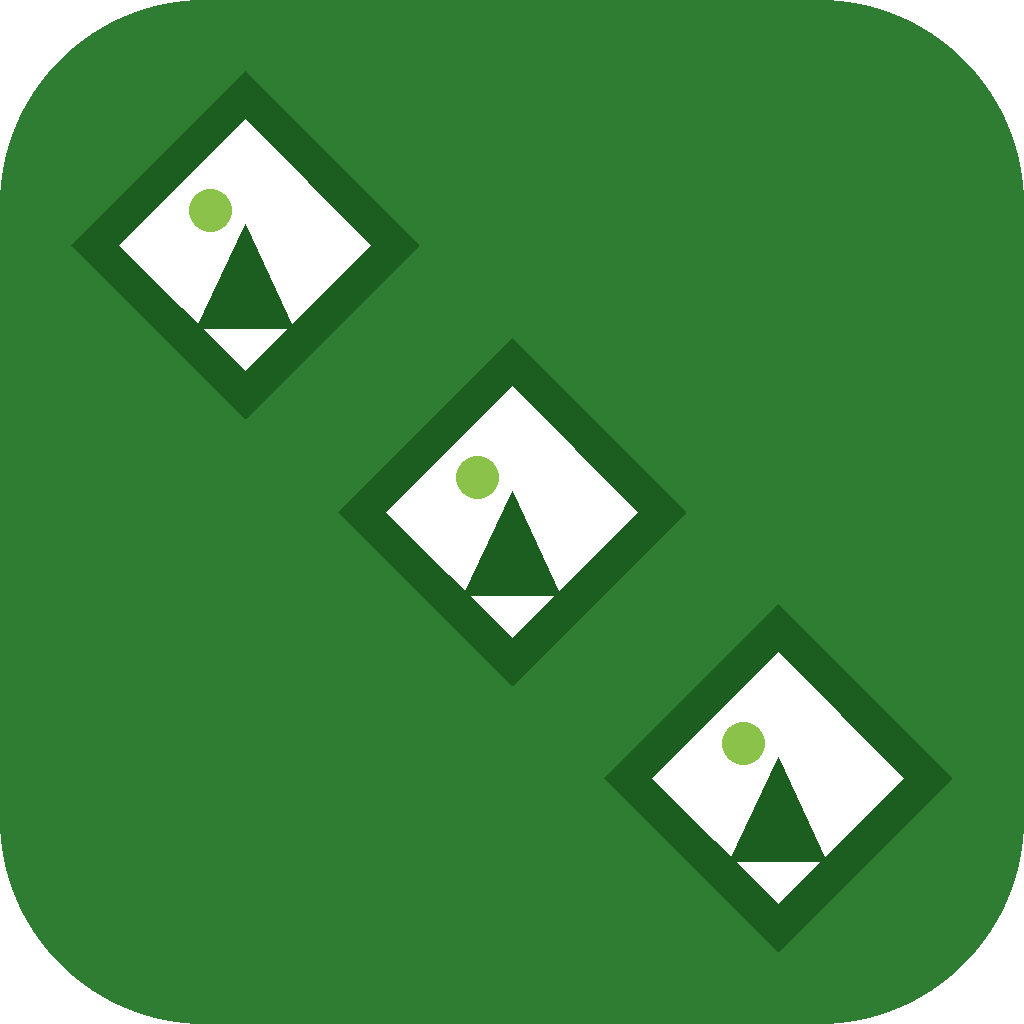
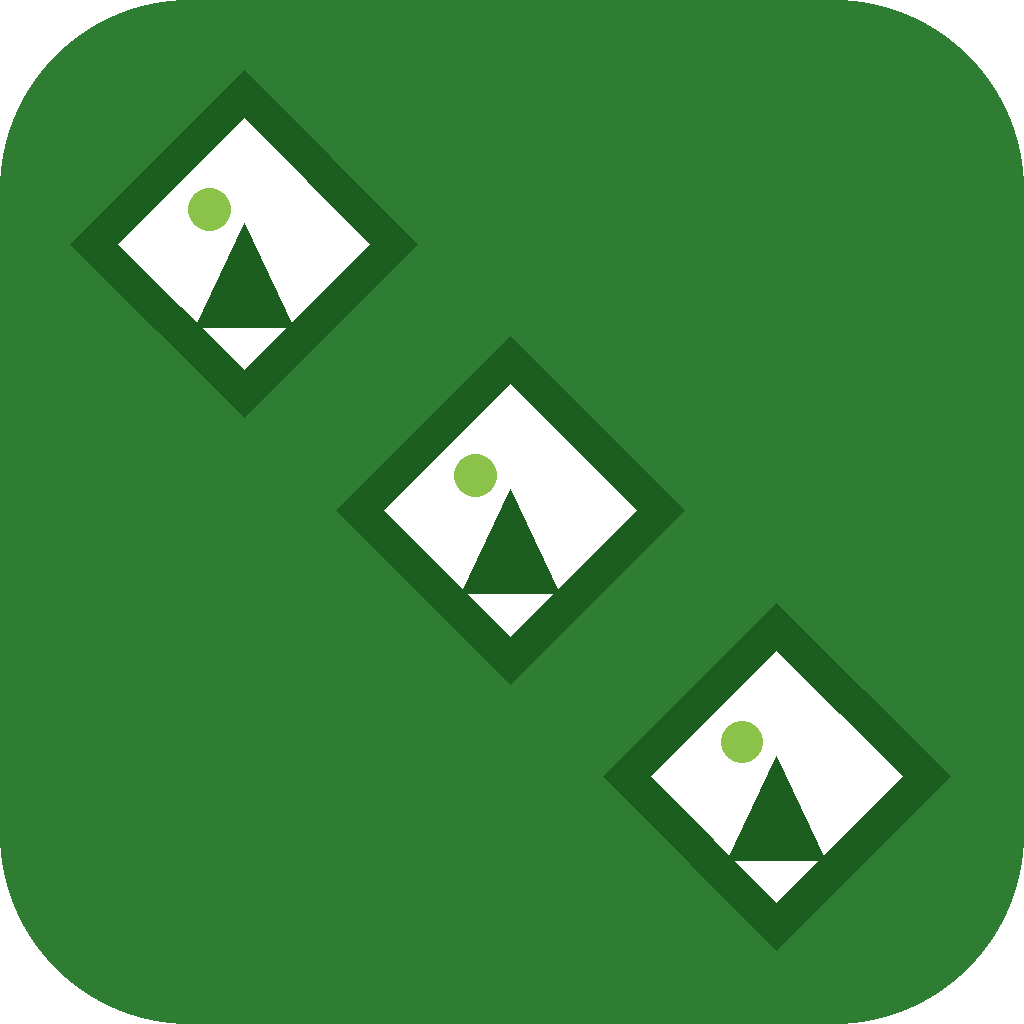
Release v1.8.2
See CHANGELOG.md for details.

diff --git a/CHANGELOG.md b/CHANGELOG.md
@@ -4,6 +4,14 @@ All notable changes to this repo are documented here. Versioning follows
 [Semantic Versioning](https://semver.org/) (`MAJOR.MINOR.PATCH`), independent
 of the Engine's own version.
 
+## [1.8.2] - 2026-09-12
+
+### Changed
+- Regenerated `assets/favicon.ico`, `assets/icon.png`, `assets/logo.png`
+  from the Engine's `src/build/create_project_assets.py`, which now writes
+  these directly instead of requiring a manual copy — kept in sync with
+  the app's current branding.
+
 ## [1.8.1] - 2026-09-12
 
 ### Fixed

diff --git a/VERSION.md b/VERSION.md
@@ -1,1 +1,1 @@
-1.8.1
+1.8.2
